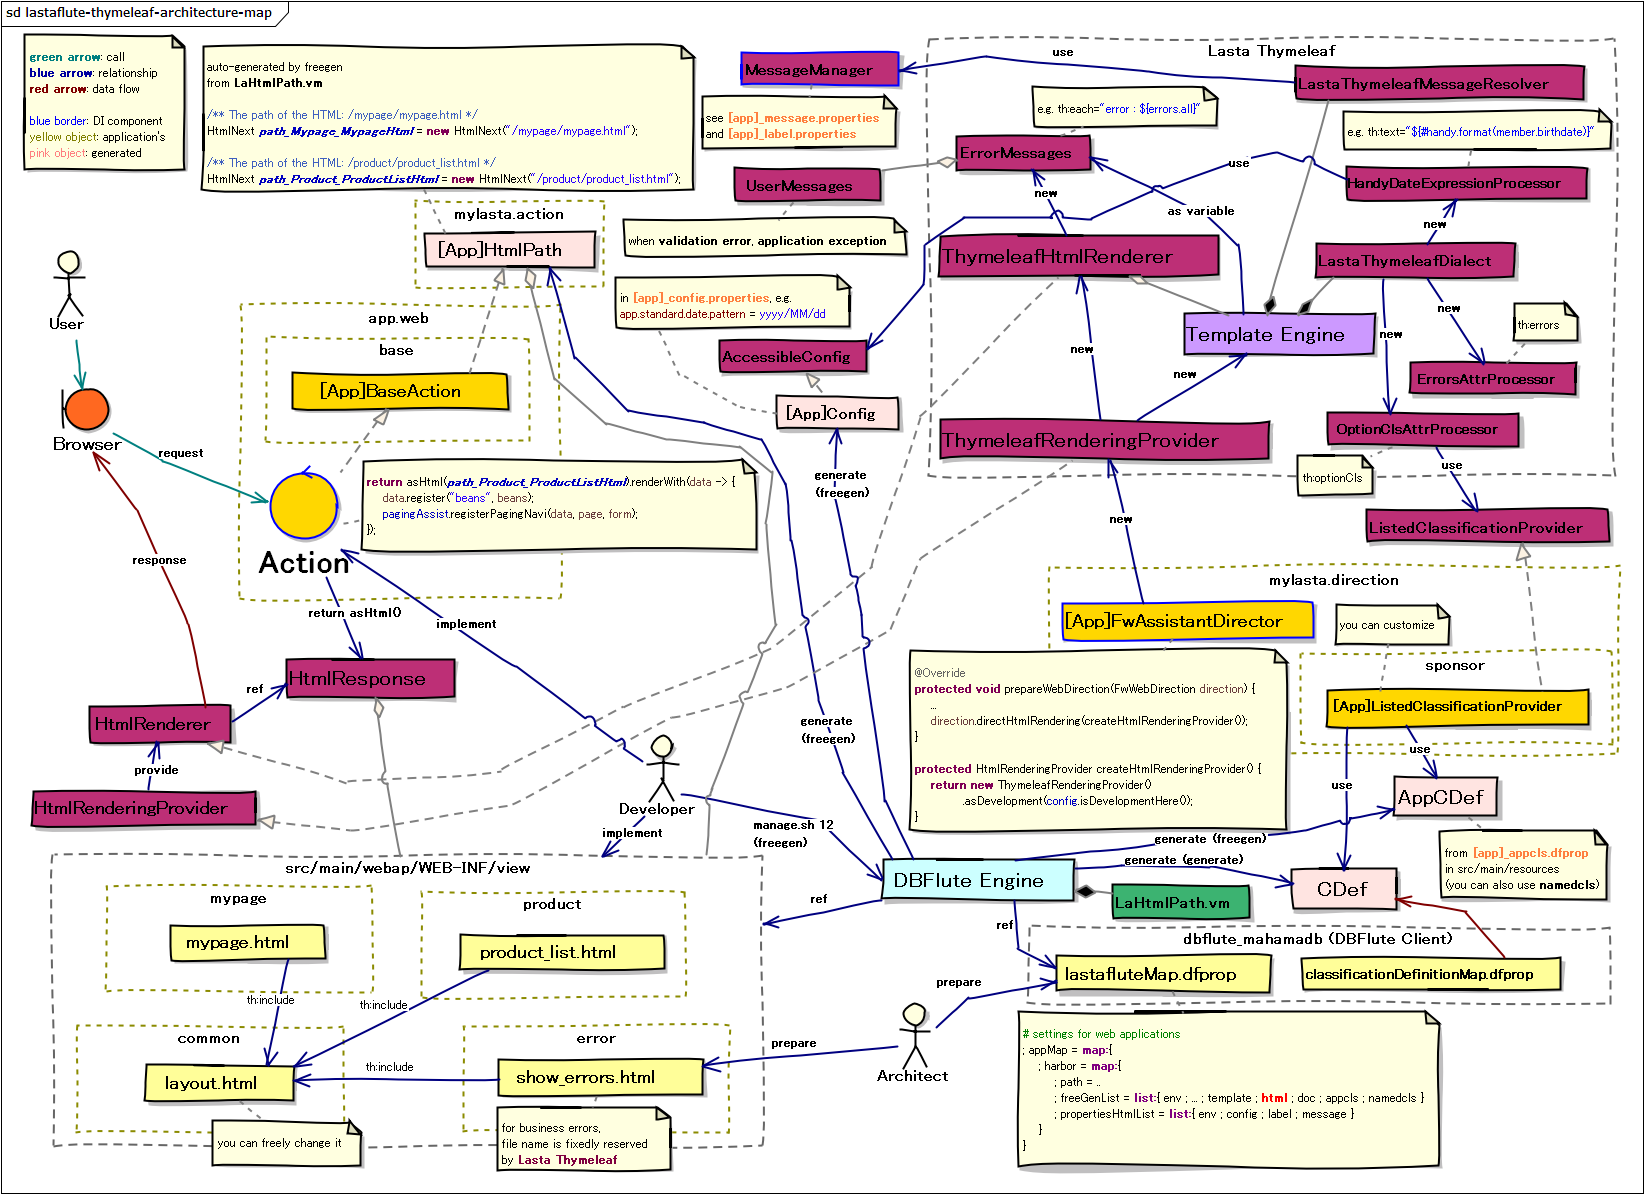
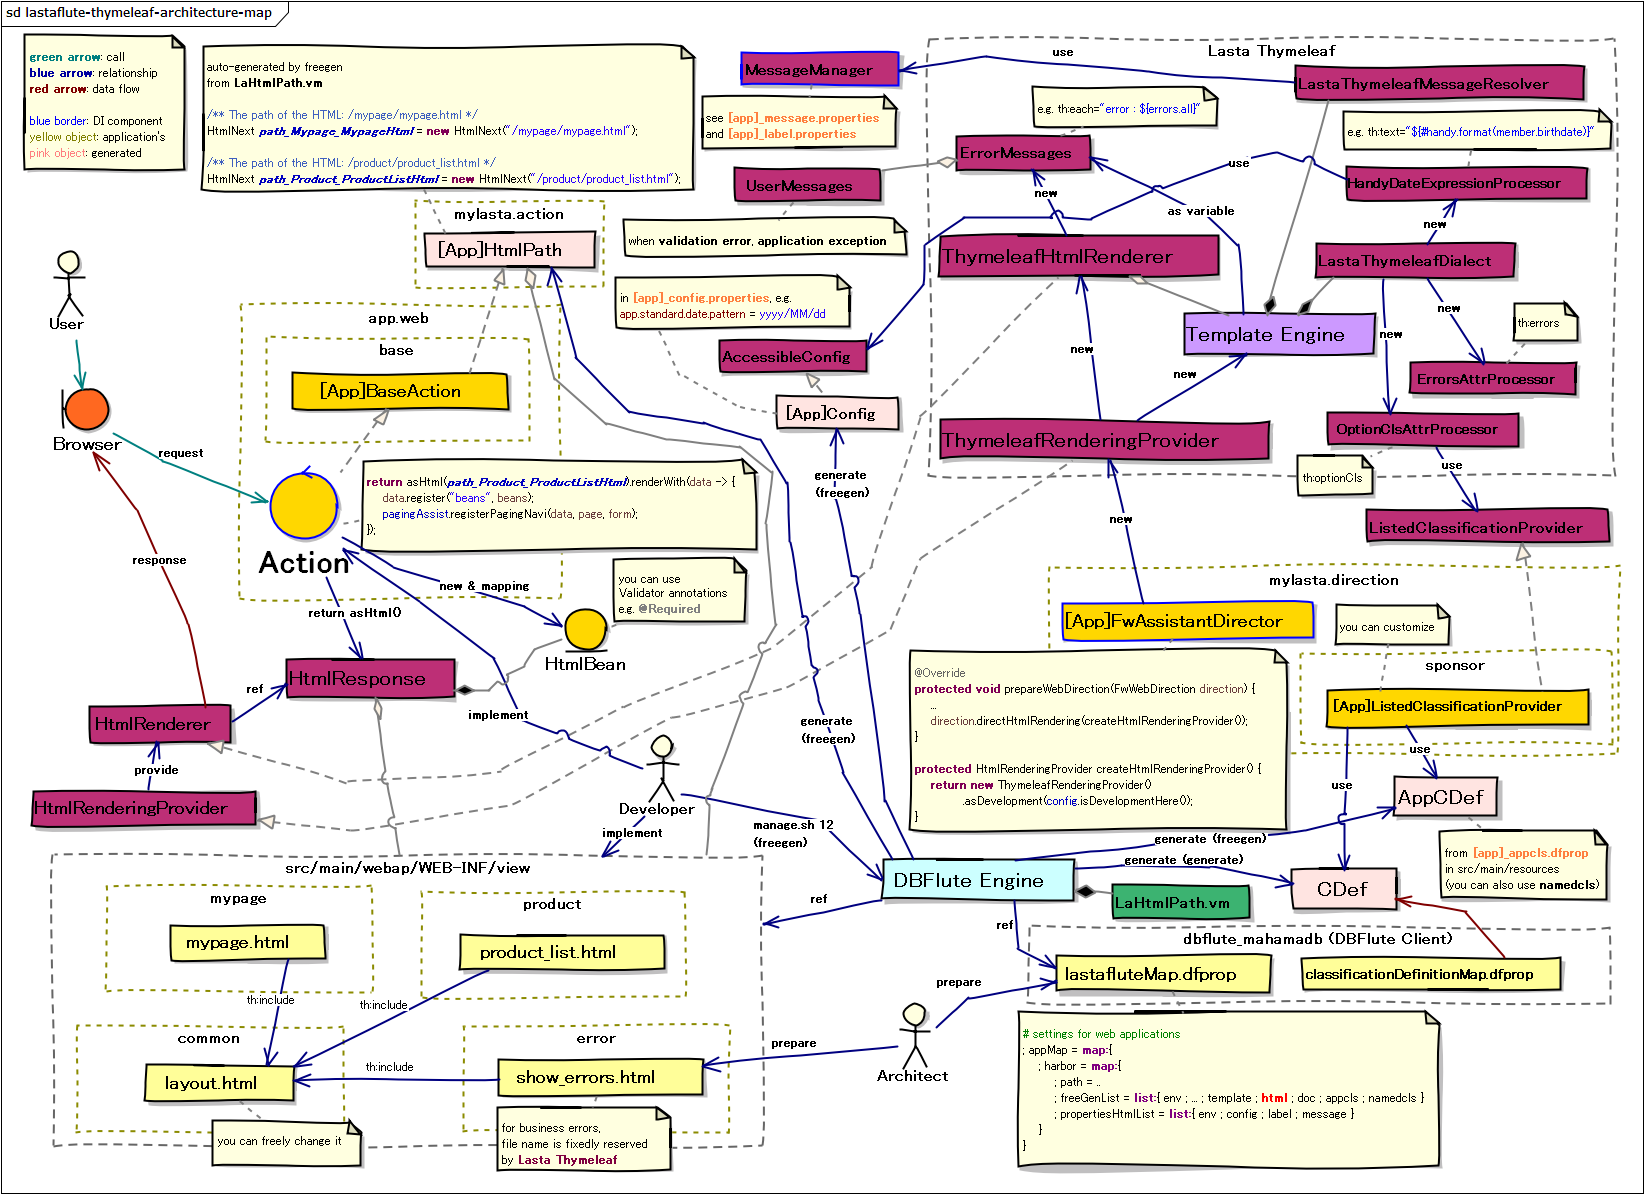
lasta

diff --git a/dbflute-backstage/resource/ja/lastaflute/howto/action/lathymeleaf.html b/dbflute-backstage/resource/ja/lastaflute/howto/action/lathymeleaf.html
@@ -26,6 +26,7 @@
 <div id="content"><!-- __content-start__ -->
 	<h1>LastaFlute の Thymeleaf</h1>
 	<div class="relatedpage"><a href="../../index.html">LastaFlute</a></div>
+	<div class="relatedpage"><a href="./index.html">LastaFlute の Action</a></div>
 	${indexlist}
 
 	<h2 id="overview">概要</h2>
@@ -53,29 +54,26 @@
     <span class="keyword">return</span> asHtml(<span class="point">path_Mypage_MypageHtml</span>);
 }
 </code></pre>
+	<h3 id="uselacolon">la:属性を使ってスムーズ連携</h3>
+	<p>
+		la:[attr-name] というLastaFluteオリジナルの属性が幾つか提供されていて、LastaFluteやDBFluteとのスムーズな連携ができます。
+		<span class="frm">(特に、区分値のCDefとの連携やバリデーションエラーとの連携は便利です)</span>
+	</p>
+<pre><span class="codetitle">e.g. la:property as productName, related to form property @Html</span><code>
+&lt;input type=<span class="literal">"text"</span> <span class="point">la:property</span>=<span class="literal">"productName"</span>/&gt;
+</code></pre>
+<pre><span class="codetitle">e.g. la:optionCls as productStatus, related to CDef.ProductStatus @Html</span><code>
+&lt;select la:property=<span class="literal">"productStatus"</span>&gt;
+    &lt;option value="" th:text=<span class="literal">"#{labels.listbox.caption.tell}"</span>>&lt;/option&gt;
+    &lt;option <span class="point">la:optionCls</span>=<span class="literal">"ProductStatus"</span>>&lt;/option&gt;
+&lt;/select&gt;
+</code></pre>
 	<h3 id="architecture">Lasta Thymeleafのアーキテクチャ</h3>
 	<p class="imgbox">
 		<a href="../../../../data/model/lastaflute/thymeleaf/lastaflute-thymeleaf-architecture-map.png" title="LastaFlute Thymeleaf Architecture"><img src="../../../../data/model/lastaflute/thymeleaf/lastaflute-thymeleaf-architecture-map.png" alt="LastaFlute Thymeleaf Architecture" width="550" height="380" /></a>
 	</p>
 
-	<h3 id="collaboration">Thymeleafとの主な連携</h3>
-	<p>
-		LastaFlute と Thymeleaf で行っている主な連携は以下のとおりです。
-	</p>
-	<dl class="keymainlist">
-		<dt>return asHtml()</dt><dd>ActionResponse で Thymeleaf のテンプレート解釈</dd>
-		<dt>[App]HtmlPath</dt><dd>HTMLテンプレートのファイルパス定義の自動生成</dd>
-		<dt>la:xxx</dt><dd>スムーズに連携するためのオリジナル属性</dd>
-		<dt>la:property</dt><dd>入力項目の関連付け</dd>
-		<dt>la:optionCls</dt><dd>リストボックスなどの表示で、区分値の CDef との連携</dd>
-		<dt>la:errors</dt><dd>バリデーションエラー時などに、[app]_message.propertiesとの連携</dd>
-		<dt>la:token</dt><dd>二度押し防止トークン用のinputタグ制御</dd>
-		<dt>#{labels.xxx}</dt><dd>項目名などの表示で、[app]_label.propertiesとの連携</dd>
-		<dt>#handy.format()</dt><dd>日付フォーマットなど、[app]_config.propertiesとの連携</dd>
-		<dt>development.here</dt><dd>開発モードの連動</dd>
-	</dl>
-
-	<h2 id="genhtmlpath">HTMLのパス定義を自動生成</h2>
+	<h2 id="genhtmlpath">HtmlPathを自動生成しよう</h2>
 	<h3 id="genconcept">自動生成のコンセプト</h3>
 	<p>
 		JavaプログラムからHTMLテンプレートのファイルを指定するとき、ファイル名をハードコードするのではなく、自動生成された定義を利用します。
@@ -139,22 +137,25 @@ src/main/webapp
 	</p>
 
 	<h2 id="laoriginal">LastaFluteオリジナル表現</h2>
-	<h3 id="laproperty">la:property</h3>
+	<h3 id="laproperty">la:property="プロパティ名"</h3>
 	<p>
 		入力項目のinputタグと、Formのプロパティを紐付ける属性です。
 	</p>
-<pre><span class="codetitle">e.g. la:property as productName @Html</span><code>
+<pre><span class="codetitle">e.g. la:property as productName, related to form property @Html</span><code>
 &lt;input type=<span class="literal">"text"</span> <span class="point">la:property</span>=<span class="literal">"productName"</span>/&gt;
 </code></pre>
 	<p>
 		リクエスト時は対応するFormのプロパティにマッピングされ、レスポンス時は対応するFormのプロパティの値が表示されます。
 		<span class="frm">(単に、name属性とvalue属性で、同じプロパティ名を二回書くのを省略しているだけとも言えます)</span>
 	</p>
-	<h3 id="laoptioncls">la:optionCls</h3>
+	<p>
+		対応するクラスは、PropertyAttrProcessor です。
+	</p>
+	<h3 id="laoptioncls">la:optionCls="区分値名"</h3>
 	<p>
 		リストボックスのoptionタグを、CDef や AppCDef の区分値を使って構築する属性です。
 	</p>
-<pre><span class="codetitle">e.g. la:optionCls as productStatus @Html</span><code>
+<pre><span class="codetitle">e.g. la:optionCls as productStatus, related to CDef.ProductStatus @Html</span><code>
 &lt;select la:property=<span class="literal">"productStatus"</span>&gt;
     &lt;option value="" th:text=<span class="literal">"#{labels.listbox.caption.tell}"</span>>&lt;/option&gt;
     &lt;option <span class="point">la:optionCls</span>=<span class="literal">"ProductStatus"</span>>&lt;/option&gt;
@@ -162,14 +163,200 @@ src/main/webapp
 </code></pre>
 	<p>
 		CDef や AppCDef は、sponsor.[App]ListedClassificationProvider にて解決されます。
-		アプリのクラスなので、新しくも NamedCls を使ったり、全体の優先順位を変えたりなど、自由にカスタマイズできます。
+		アプリのクラスなので、新しく NamedCls を使ったり、全体の優先順位を変えたりなど、自由にカスタマイズできます。
 	</p>
-	<h3 id="laerrors">la:errors</h3>
-	<h3 id="latoken">la:token</h3>
-	<h3 id="labels">#{labels.xxx}</h3>
-	<h3 id="handyformat">#handy.format()</h3>
+	<p>
+		対応するクラスは、OptionClsAttrProcessor です。
+	</p>
+	<h3 id="laerrors">la:errors="プロパティ名"</h3>
+	<p>
+		バリデーションエラーや業務例外のメッセージを表示するための属性です。
+	</p>
+<pre><span class="codetitle">e.g. la:errors as productStatus, related to CDef.ProductStatus @Html</span><code>
+&lt;form th:action=<span class="literal">"@{/member/edit/}"</span> action=<span class="literal">"#"</span> method=<span class="literal">"post"</span>&gt;
+    &lt;span <span class="point">la:errors</span>=<span class="literal">"_global"</span>/&gt;
+    <span class="abbreviation">...</span>
+    &lt;input type=<span class="literal">"text"</span> <span class="point">la:property</span>=<span class="literal">"memberName"</span>/&gt;
+    &lt;span <span class="point">la:errors</span>=<span class="literal">"memberName"</span>/&gt;
+</code></pre>
+	<p>
+		指定されたプロパティに対応するエラーメッセージが表示されます。
+	</p>
+<pre><span class="codetitle">e.g. la:errors result, required check @Html</span><code>
+&lt;span class=<span class="literal">"errors"</span>&gt;<span class="point">is required</span>&lt;/span&gt;
+</code></pre>
+	<p>
+		エラー表示時は、そのspanタグのclass属性に、<em class="mark">errors</em>
+		というスタイルが自動的に付与されます。CSSで利用することができます。<span class="frm">(エラーが発生しないときは、spanタグ自体が消えます)</span>
+	</p>
+	<p>
+		主語なしメッセージ方式であれば、spanタグで入力項目のタグのすぐ近くに配置するのがオーソドックスです。違うタグでも利用できますので、そこはHTMLのコーディングポリシーに合わせましょう。
+		一方で、特定のプロパティに属さないメッセージもあるかもしれません<span class="frm">(業務例外のメッセージなどもありえます)</span>。
+		そのために、<em class="mark">_global</em> を指定した la:errors を上部にひとつ配置しておくと良いでしょう。
+	</p>
+	<p>
+		主語ありメッセージ方式であれば、プロパティ名に <em class="mark">all</em> と指定することで、すべてのプロパティに対するメッセージが展開されます。
+		この場合は、画面の上部にひとつ配置するのがオーソドックスです。liタグなどで利用することが想定されます。
+	</p>
+	<p>
+		対応するクラスは、ErrorsAttrProcessor です。
+	</p>
+	<h3 id="latoken">la:token="true"</h3>
+	<p>
+		二度押し防止のトークンを出力します。
+	</p>
+<pre><span class="codetitle">e.g. la:token on hidden field @Html</span><code>
+&lt;form th:action=<span class="literal">"@{/member/edit/}"</span> action=<span class="literal">"#"</span> method=<span class="literal">"post"</span>&gt;
+    &lt;input type=<span class="literal">"hidden"</span> <span class="point">la:token</span>=<span class="literal">"true"</span>/&gt;
+</code></pre>
+	<p>
+		formタグの直下などに配置したhiddenフィールドに付与するのがオーソドックスです。
+		Actionで発行したトークンが展開され、submit時にリクエストパラメーターとして送信されて二度押し防止チェックされます。
+	</p>
+	<p>
+		Actionでトークンの発行処理をする必要があります。
+	</p>
+	<div class="relatedpage"><a href="./index.html#token">DoubleSubmit Token</a></div>
+	<p>
+		対応するクラスは、TokenAttrProcessor です。
+	</p>
+	<h3 id="labels">#{labels.キー}</h3>
+	<p>
+		HTMLテンプレートのなかで、[app]_label.properties を利用することができます。
+	</p>
+<pre><span class="codetitle">e.g. use label of [app]_label.properties @Html</span><code>
+&lt;span th:text="<span class="point">#{labels.productName}</span>"&gt;labels.productName&lt;/span&gt;
+&lt;input type=<span class="literal">"text"</span> la:property=<span class="literal">"productName"</span>/&gt;
+</code></pre>
+	<p>
+		項目表現を統一したり、多言語対応するときなどに役に立ちます。
+		プロジェクトで利用するかしないかは、統一的なポリシーにした方が良いでしょう。
+		<span class="frm">(割り切って全く利用しないという選択肢もあるでしょう)</span>
+	</p>
+	<h3 id="handyformat">#handy.format(日付)</h3>
+	<p>
+		日付のフォーマットを、HTMLテンプレート内で実行することができます。
+	</p>
+<pre><span class="codetitle">e.g. format date of Birthdate as config's pattern @Html</span><code>
+&lt;span th:text="<span class="point">${#handy.format(member.birthdate)}</span>"&gt;dummy&lt;/span&gt;
+</code></pre>
+	<p>
+		日付フォーマット (Pattern) を指定しないメソッドの場合は、[app]_config.properties で定義されているフォーマットが利用されます。
+		統一的なフォーマット管理ができます。<span class="frm">(デフォルトのフォーマットと考えて良いでしょう)</span>
+	</p>
+<pre><span class="codetitle">e.g. date patterns in [app]_config.properites @Html</span><code>
+<span class="comment"># The pattern of date as application standard used by e.g. Thymeleaf handy.format()</span>
+app.standard.date.pattern = <span class="literal">yyyy/MM/dd</span>
 
-	<h2 id="prepare">Lasta Thymeleafの環境準備</h3>
+<span class="comment"># The pattern of date-time as application standard used by e.g. Thymeleaf handy.format()</span>
+app.standard.datetime.pattern = <span class="literal">yyyy/MM/dd HH:mm:ss</span>
+
+<span class="comment"># The pattern of time as application standard used by e.g. Thymeleaf handy.format()</span>
+app.standard.time.pattern = <span class="literal">HH:mm:ss</span>
+</code></pre>
+	<p>
+		"デフォルトとは違うフォーマットで表示" というような場合は、第二引数でフォーマットを指定します。
+	</p>
+<pre><span class="codetitle">e.g. format date of Birthdate as specified pattern @Html</span><code>
+&lt;span th:text=<span class="literal">"${#handy.format(member.birthdate, '<span class="point">yyyy@MM@dd</span>')}"</span>&gt;dummy&lt;/span&gt;
+</code></pre>
+	<p>
+		"日付部分(yyyy/MM/dd)はデフォルトと同じだけど、時間部分(HH:mm:ss)だけがデフォルトとは違う" というような場合に、<em class="smallmark">$$date$$</em>, <em class="smallmark">$$datetime$$</em>, <em class="smallmark">$$time$$</em> が利用できます。
+	</p>
+<pre><span class="codetitle">e.g. format date of FormalizedDatetime as specified pattern @Html</span><code>
+&lt;span th:text=<span class="literal">"${#handy.format(member.formalizedDatetime, '<span class="point">$$date$$ HH@mm@ss</span>')}"</span>&gt;dummy&lt;/span&gt;
+</code></pre>
+	<p>
+		HtmlBeanのプロパティは、LocalDate, LocalDateTime など日付型で定義します。
+		プロパティの値が null なら format() の戻りは null になり、th:textの制御によって画面の表示上は "空" になります。
+		<span class="frm">(そもそも必須項目であれば、@Required を付けておきましょう)</span> 
+	</p>
+<pre><span class="codetitle">e.g. date property as LocalDate in HtmlBean @Java</span><code>
+@Required
+<span class="keyword">public</span> LocalDate <span class="attribute">latestPurchaseDate</span>;
+</code></pre>
+	<p>
+		Action側でフォーマットするやり方もできますが、実装ポリシーを定めないとフォーマットの実装の仕方や管理がバラバラになる可能性もあります。
+		HTMLテンプレートでのフォーマットでも統一的な管理ができますし、さらにプロパティの型を日付型のまま扱えてタイプセーフになるので、特に大きな理由がなければ
+		#handy.format() を使うのをオススメしています。<span class="frm">(いずれにせよ、画面ごとに変えるのではなくプロジェクト全体で統一しましょう)</span>
+	</p>
+	<p>
+		#handy は、他にもメソッドがあります。詳しくは HandyDateExpressionProcessor を参照。
+	</p>
+	<h3 id="errorsobj">${errors.exists('プロパティ名')}</h3>
+	<p>
+		エラーメッセージがあるかどうか、判定することができます。
+		例えば、バリデーションエラーのときに、エラー対象のテキストボックスにスタイルを付けたい時に利用できます。
+	</p>
+<pre><span class="codetitle">e.g. add valid-error if validation error to memberName @Html</span><code>
+&lt;input type=<span class="literal">"text"</span>
+    la:property=<span class="literal">"memberName"</span>
+    th:class="<span class="point">${errors.exists('memberName')} ? 'valid-error'</span>"/&gt;
+</code></pre>
+	<p>
+		la:errorsは、内部的にはこの "errorsオブジェクト" を使っています。
+	</p>
+	<p>
+		errorsオブジェクトには、他にもメソッドがあります。詳しくは ErrorMessages を参照。
+	</p>
+
+	<h2 id="htmlbean">HtmlBeanを作ろう</h2>
+	<h3 id="htmlbeanmapping">HtmlBeanに詰め替えよう</h3>
+	<p>
+		DBFluteから検索したEntityは、HtmlBeanに詰め替えて registerData()
+		に登録します。Entityのまま registerData() に登録することはできません。<span class="frm">(LastaFluteが、できる範囲でチェックしています)</span>
+	</p>
+<pre><span class="codetitle">e.g. mapping entity to HTML bean in Action class @Java</span><code>
+@Execute
+<span class="keyword">public</span> HtmlResponse index(<span class="keyword">int</span> <span class="localvar">productId</span>, SeaLandForm <span class="localvar">form</span>) {
+    <span class="abbreviation">...</span>
+    ListResultBean&lt;Purchase&gt; <span class="localvar">purchaseList</span> = <span class="attribute">purchaseBhv</span>.selectList(cb -&gt; {
+        <span class="abbreviation">...</span>
+    });
+    List&lt;SeaLandRowBean&gt; <span class="localvar">beans</span> = <span class="localvar">purchaseList</span>.stream().map(<span class="localvar">purchase</span> -&gt; {
+        SeaLandRowBean <span class="localvar">bean</span> = <span class="keyword">new</span> SeaLandRowBean();
+        <span class="localvar">bean</span>.<span class="attribute">purchaseId</span> = <span class="localvar">purchase</span>.getPurchaseId();
+        <span class="localvar">purchase</span>.getMember().alwaysPresent(<span class="localvar">member</span> -&gt; {
+            <span class="localvar">bean</span>.<span class="attribute">memberName</span> = <span class="localvar">member</span>.getMemberName();
+        });
+        <span class="abbreviation">...</span>
+        <span class="keyword">return</span> <span class="localvar">bean</span>;
+    }).collect(Collectors.toList());
+    <span class="keyword">return</span> asHtml(<span class="attribute">path_Sea_SeaLandHtml</span>).renderWith(<span class="localvar">data</span> -&gt; {
+        <span class="localvar">data</span>.<span class="subpoint">register</span>(<span class="literal">"beans"</span>, <span class="localvar">beans</span>);
+    });
+}
+</code></pre>
+	<p>
+		HTMLテンプレートの世界はコンパイルセーフではないので、Entityを直接渡して参照すると、DB変更時のコンパイルエラー検出ができなくなります。
+		HTMLテンプレートの中でDBのスキーマ構造を意識した実装をしないようにしましょう。
+	</p>
+	<h3 id="htmlbeanvalidation">HtmlBeanのバリデーション</h3>
+	<p>
+		Thymeleafに渡す HtmlBean に、@Required などの "Validatorアノテーション" を付与してバリデーションすることができます。
+	</p>
+	<div class="detailpage"><a href="./lavalidation.html#responsevalidation">番外. レスポンスデータのバリデーション</a></div>
+<pre><span class="codetitle">e.g. Required annotation in HTML bean class @Java</span><code>
+<span class="keyword">public class</span> SeaLandBean {
+
+    <span class="subpoint">@Required</span>
+    <span class="keyword">public</span> Integer <span class="attribute">memberId</span>;
+
+    <span class="subpoint">@Required</span>
+    <span class="keyword">public</span> String <span class="attribute">memberName</span>;
+
+    <span class="abbreviation">...</span>
+}
+</code></pre>
+	<p>
+		不正なデータを渡してしまっても、HTMLテンプレートの処理の中ではエラーにならず表示されてしまう可能性も高いですし、エラーになったとしてもテンプレート処理内だとデバッグがしづらいものです。
+		渡す前にチェックをかけられるとデバッグコストが減るでしょう。また、可読性も良くなります。
+	</p>
+	<p>
+		キリがないというのもあるので、@Required (+ @Valid) だけ付けるというのでも良いでしょう。
+	</p>
+
+	<h2 id="prepare">Lasta Thymeleafの環境準備</h2>
 	<p>
 		Lasta Thymeleaf を使った "Exampleプロジェクト" (e.g. harbor, dockside)
 		からスタートアップすれば自然と組み込まれていますが、もしゼロから準備するのであれば、このようになります。
@@ -226,6 +413,16 @@ protected HtmlRenderingProvider createHtmlRenderingProvider() {
     }
 }
 </code></pre>
+
+	<div class="inucolumn">
+		<h2>Thymeleaf3対応しています</h2>
+		<p>
+			2018年4月時点の最新バージョン 0.3.1 では、Thymeleaf2 を利用しています。 
+		</p>
+		<p>
+			現場の協力も得ながら(大感謝！)、Thymeleaf3対応を進めています。
+		</p>
+	</div>
 <!-- __content-end__ --></div></div>
 
 <div id="sidebar">
